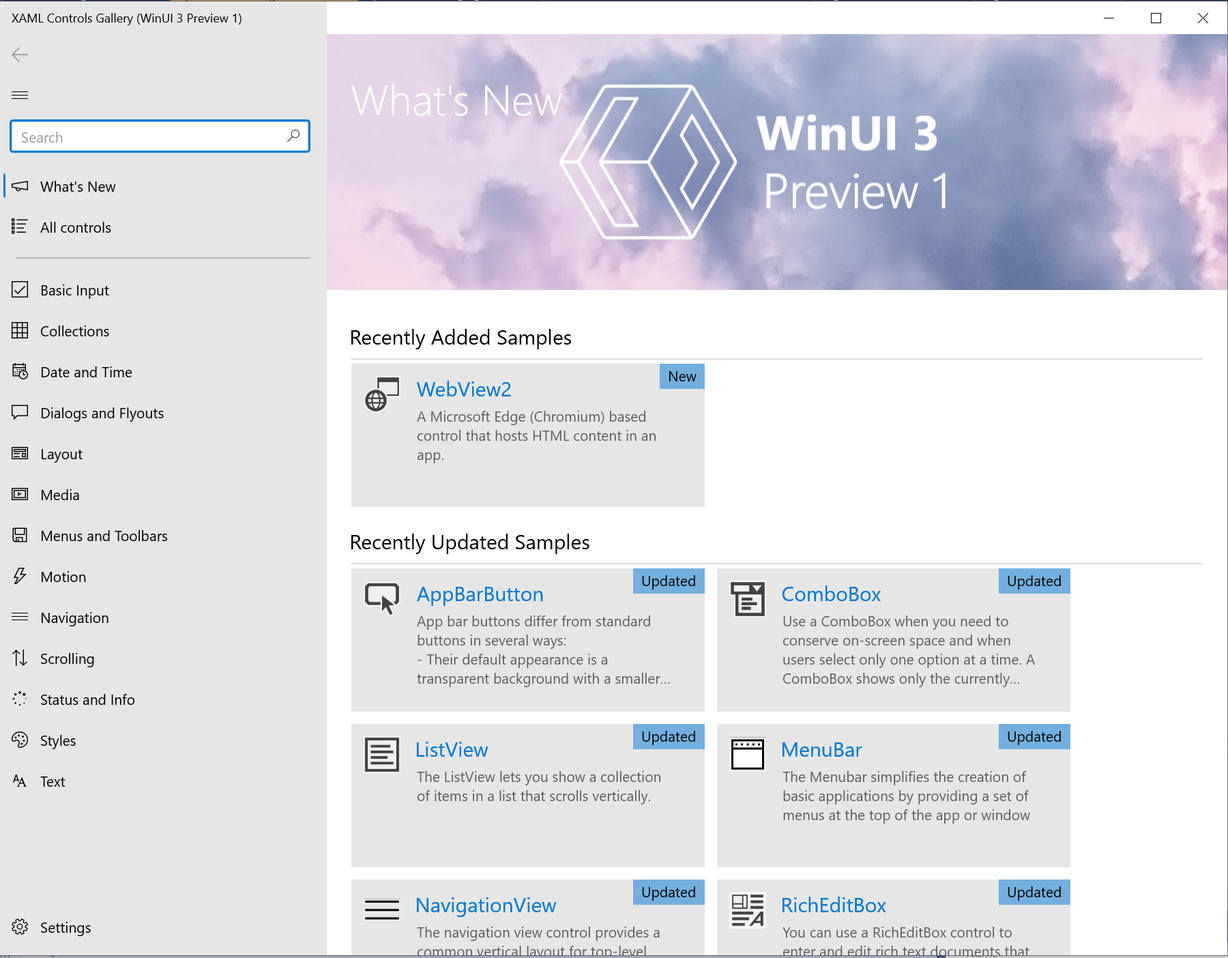
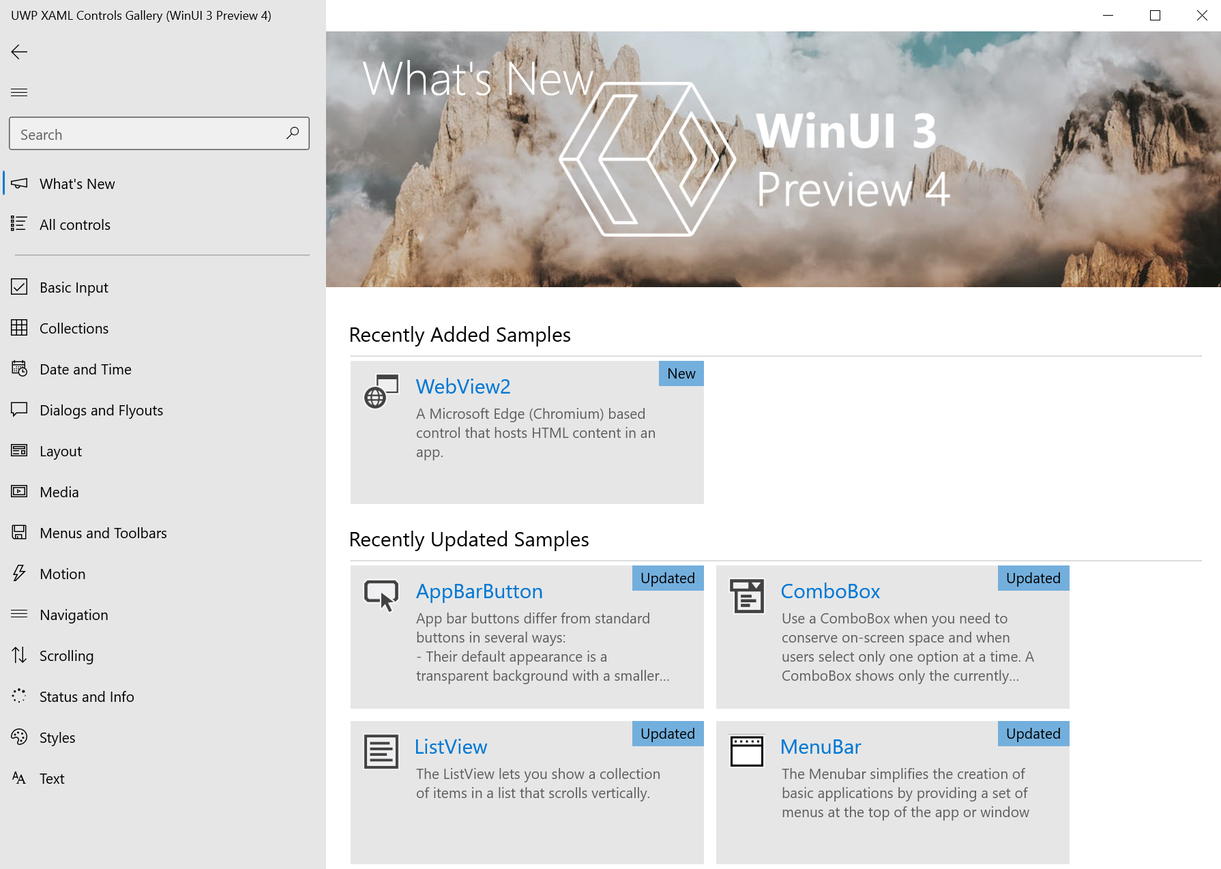
WinUI 3 Preview 4 guidance updates (#1272)
* First draft of P4 release notes

* Addressing a few pieces of feedback

* Removing inner loop improvements from new functionality

* Adding new xaml controls gallery image

* just a few revisions

* delete en-us from urls

* fixed bookmark links

* deleted version from URL

* revised link

* Adding a few last minute notes

* Adding visual studio note

* Editing note about API availability

* Adding a note about customcapabilities API

* Update index.md

just fixing the build suggestions

diff --git a/hub/apps/winui/winui3/index.md b/hub/apps/winui/winui3/index.md
@@ -1,54 +1,52 @@
 ---
-title: WinUI 3 Preview 3 (November 2020)
-description: Overview of the WinUI 3 Preview 3 release.
-ms.date: 11/17/2020
+title: WinUI 3 Preview 4 (February 2021)
+description: Overview of the WinUI 3 Preview 4 release.
+ms.date: 02/09/2021
 ms.topic: article
 ---
 
-# Windows UI Library 3 Preview 3 (November 2020)
+# Windows UI Library 3 Preview 4 (February 2021)
 
 Windows UI Library (WinUI) 3 is a native user experience (UX) framework for both Windows Desktop and UWP apps.
 
-**WinUI 3 Preview 3** brings both new and improved functionality, along with significant bug fixes.
-
-**See [Preview 3 limitations and known issues](#preview-3-limitations-and-known-issues)**.
+**WinUI 3 Preview 4** is a stability preview release that includes critical bug fixes and other general improvements (see **[Capabilities introduced in Preview 4](#capabilities-introduced-in-preview-4)**).
 
 > [!Important]
 > This WinUI 3 preview release is intended for early evaluation and to gather feedback from the developer community. It should **NOT** be used for production apps.
 >
-> We will continue shipping preview releases of WinUI 3 into 2021, followed by the first official release.
+> We will continue shipping preview releases of WinUI 3 into 2021, followed by the first official, supported release in March 2021.
 >
 > Please use the [WinUI GitHub repo](https://github.com/microsoft/microsoft-ui-xaml) to provide feedback and log suggestions and issues.
 
-## Install WinUI 3 Preview 3
+## Install WinUI 3 Preview 4
 
-WinUI 3 Preview 3 includes Visual Studio project templates to help get started building apps with a WinUI-based user interface, and a NuGet package that contains the WinUI libraries. To install WinUI 3 Preview 3, follow these steps.
+WinUI 3 Preview 4 includes Visual Studio project templates to help get started building apps with a WinUI-based user interface, and a NuGet package that contains the WinUI libraries. To install WinUI 3 Preview 4, follow these steps.
 
 > [!NOTE]
-> You can also clone and build the WinUI 3 Preview 3 version of the [XAML Controls Gallery](#xaml-controls-gallery-winui-3-preview-3-branch).
+> You can also clone and build the WinUI 3 Preview 4 version of the [XAML Controls Gallery](#xaml-controls-gallery-winui-3-preview-4-branch).
 
 1. Ensure that your development computer has Windows 10, version 1803 (build 17134), or newer installed.
 
-2. Install [Visual Studio 2019, version 16.9 Preview](https://visualstudio.microsoft.com/vs/preview/)
+2. Install [Visual Studio 2019 version 16.9 Preview](https://visualstudio.microsoft.com/vs/preview/). Download the **latest preview** to ensure you get all of the necessary updates to your workloads (such as .NET 5).
 
     You must include the following workload when installing Visual Studio:
     - Universal Windows Platform development
 
     To build .NET apps, you must also include the following workloads:
-    - .NET Desktop Development (this also installs .NET 5)
-    
+    - .NET Desktop Development (this also installs the latest version of .NET 5, which you'll need)
+
     To build C++ apps, you must also include the following workloads:
     - Desktop development with C++
     - The *C++ (v142) Universal Windows Platform tools* optional component for the Universal Windows Platform workload (see "Installation Details" under the "Universal Windows Platform development" section, on the right pane)
+
 3. Make sure your system has a NuGet package source enabled for **nuget.org**. For more information, see [Common NuGet configurations](/nuget/consume-packages/configuring-nuget-behavior).
 
-4. Download and install the [WinUI 3 Preview 3 VSIX package](https://aka.ms/winui3/preview3-download). This adds both the WinUI 3 project templates and the NuGet package containing the WinUI 3 libraries to Visual Studio 2019.
+4. Download and install the [WinUI 3 Preview 4 VSIX package](https://aka.ms/winui3/preview4-download). This adds both the WinUI 3 project templates and the NuGet package containing the WinUI 3 libraries to Visual Studio 2019.
 
     For instructions on how to add the VSIX package to Visual Studio, see [Finding and Using Visual Studio Extensions](/visualstudio/ide/finding-and-using-visual-studio-extensions#install-without-using-the-manage-extensions-dialog-box).
 
-#### WebView2
+5. To use WinUI 3 tooling such as Live Visual Tree, Hot Reload, and Live Property Explorer, you must enable WinUI 3 tooling with Visual Studio Preview Features as described in the [instructions here](https://github.com/microsoft/microsoft-ui-xaml/issues/4140).
 
-If you're using the WebView2 control in your app, please install the **Dev Channel version of the Microsoft Edge Browser** from [Microsoft Edge Insider Channels](https://www.microsoftedgeinsider.com/en-us/download). Make sure to uninstall any existing instances of Microsoft Edge Beta, Microsoft Edge Dev, and Microsoft Edge WebView2 Runtime.
 
 #### Windows Community Toolkit
 
@@ -56,7 +54,7 @@ If you're using the Windows Community Toolkit, [download the latest version](htt
 
 ## Create WinUI projects
 
-After installing the WinUI 3 Preview 3 VSIX package, you're ready to create a new project using one of the WinUI project templates in Visual Studio. To access the WinUI project templates in the **Create a new project** dialog, filter the language to **C++** or **C#**, the platform to **Windows**, and the project type to **WinUI**. Alternatively, you can search for *WinUI* and select one of the available C# or C++ templates.
+After installing the WinUI 3 Preview 4 VSIX package, you're ready to create a new project using one of the WinUI project templates in Visual Studio. To access the WinUI project templates in the **Create a new project** dialog, filter the language to **C++** or **C#**, the platform to **Windows**, and the project type to **WinUI**. Alternatively, you can search for *WinUI* and select one of the available C# or C++ templates.
 
 ![WinUI project templates](images/winui-projects-csharp.png)
 
@@ -65,11 +63,11 @@ For more information about getting started with the WinUI project templates, see
 - [Get started with WinUI 3 for desktop apps](get-started-winui3-for-desktop.md)
 - [Get started with WinUI 3 for UWP apps](get-started-winui3-for-uwp.md)
 
-Aside from the [limitations and known issues](#preview-3-limitations-and-known-issues), building an app using the WinUI projects is  similar to building a UWP app with XAML and WinUI 2.x. Therefore, most of the [guidance documentation](/windows/uwp/design/) for UWP apps and the **Windows.UI** WinRT namespaces in the Windows SDK is applicable.
+Aside from the [limitations and known issues](#limitations-and-known-issues), building an app using the WinUI projects is  similar to building a UWP app with XAML and WinUI 2.x. Therefore, most of the [guidance documentation](/windows/uwp/design/) for UWP apps and the **Windows.UI** WinRT namespaces in the Windows SDK is applicable.
 
-With this release, we've also added [WinUI 3 API reference documentation](/windows/winui/api/) for all WinRT APIs ported to WinUI 3.
+API reference documentation for this release is coming soon. The link will be provided here when it is available. In the meantime, feel free to look at the [WinUI 3 API reference documentation for Preview 3](/windows/winui/api/).
 
-If you created a project using WinUI 3 Preview 2, you can upgrade your project to use Preview 3. See the [WinUI GitHub repository](https://aka.ms/winui3/upgrade-instructions) for detailed instructions.
+If you created a project using WinUI 3 Preview 3, you can upgrade your project to use Preview 4. See the [WinUI GitHub repository](https://aka.ms/winui3/upgrade-instructions) for detailed instructions.
 
 ### Project templates for WinUI 3
 
@@ -106,35 +104,81 @@ The following item templates are available for use in a WinUI project. To access
 
 ### Visual Studio Support
 
-In order to take advantage of the latest tooling features added into WinUI 3 Preview 3 like Hot Reload, Live Visual Tree, and Live Property Explorer, you must use the latest preview version of Visual Studio with the latest WinUI 3 preview. The table below shows the compatibility of future versions with WinUI 3 Preview 3:
+In order to take advantage of the latest tooling features added into WinUI 3 Preview 4 like Hot Reload, Live Visual Tree, and Live Property Explorer, you must use the latest preview version of Visual Studio with the latest WinUI 3 preview and be sure to enable WinUI tooling in Visual Studio Preview Features, as described in the [instructions here](https://github.com/microsoft/microsoft-ui-xaml/issues/4140). The table below shows the compatibility of future versions with WinUI 3 Preview 4:
 
-| VS Version  | WinUI 3 Preview 3  |
+| VS Version  | WinUI 3 Preview 4  |
 |---|---|
 | 16.8 RTM  | No   |
 | 16.9 Previews  | Yes  | 
 | 16.9 RTM  | No   |
 | 16.10 Previews  | Yes   |
 
+## Capabilities introduced in Preview 4
 
-## New features and capabilities in Preview 3
+- Parity with WinUI 2.5 (includes InfoBar control, new features in ProgressRing and NavigationView, and bug fixes)
+- Custom titlebar capabilities: new Window.ExtendsContentIntoTitleBar and Window.SetTitleBar APIs that allow developers to create custom title bars in Desktop apps.
+- VirtualSurfaceImageSource  support
 
-- ARM64 Support
-- Drag and drop inside and outside of apps
-- RenderTargetBitmap (currently only XAML content - no SwapChainPanel content)
-- Improvements to our tooling/developer experience:
-  - Live Visual Tree, Hot Reload, Live Property Explorer and similar tools
-  - Intellisense now working for WinUI 3 
-- MRT Core Support
-  - This makes apps faster and lighter on startup and provides quicker resource lookup.
-- Custom cursor support
-- Off-thread input
-- Performance improvements since Preview 2
-- Multiple windows in Desktop apps - improved support since Preview 2
+## List of bugs fixed in Preview 4
+
+Below is a list of user-facing bugs that the team has fixed since Preview 3. There has also been a lot of work going on surrounding stabilization and improving our testing.
+
+- This release has taken on a new version of CS/WinRT and the Windows SDK, which fixed the following bugs:
+  - Crash when binding to a URI property using {Binding}
+  - C#/WinRT Marshal functions not interoperating correctly with .NET 5
+
+- WinUI 3 crash when running on Windows Insider Builds
+  - Thanks to multiple community contributors for reporting this bug on GitHub! 
+- WebView2 doesn't apply host app's Language/locale to CoreWebView2Environment
+- Windows Community Toolkit DataGrid control crashes app on start/when scrollbars appear
+  - Thanks to multiple community contributors for reporting this bug on GitHub!
+- Page rendering gets into a bad state when display mode changes
+- Crash when using Language ComboBox in CalendarView
+- WinUI 3 Desktop: Can't tab out of WebView2
+- WinUI 3 Desktop: TreeView with derived TreeViewNodes crashes 
+  - Thanks to @eleanorleffler for filing this [issue on GitHub](https://github.com/microsoft/microsoft-ui-xaml/issues/2699)!
+- WinUI 3 Desktop: Unable to Enter Text into TextBox inside ContentDialog 
+  - Thanks to @eleanorleffler for filing this [issue on GitHub](https://github.com/microsoft/microsoft-ui-xaml/issues/2704)!
+- WinUI 3 Desktop: ALT and F6 don't work
+- Old removed SwapChainPanel renders on top of new SwapChain
+  - Thanks to @dotMorten for filing this [issue on Github](https://github.com/microsoft/microsoft-ui-xaml/issues/2942)!
+- WinUI 3 Desktop: Cannot scroll with trackpad
+- Crash when using NavigationView control with multiple windows on the same thread
+- Accessibility Issue: Show focus rect on WinUI desktop app launch
+- Access violation while scrolling in DataGrid
+  - Thanks to @TroelsL for filing this [issue on GitHub](https://github.com/microsoft/microsoft-ui-xaml/issues/2946)!
+- WinUI 3 Desktop: Tab cycling does not work 
+- Drag and Drop on GridView fails in desktop application with WinUI Xaml Islands
+  - Thanks to @smk2007 for filing this [issue on GitHub](https://github.com/microsoft/microsoft-ui-xaml/issues/3871)!
+- Accessibility issue: Unable to scroll with PageUp/PageDown keys on WinUI 3 Desktop
+- WebView2 has wrong viewport size
+- WebView2 crash on click after opening MenuFlyout
+  - Thanks to @sudongg for filing this [issue on GitHub](https://github.com/microsoft/microsoft-ui-xaml/issues/3729)!
+- WinUI 3 Desktop: Attempting to bring down DropDownButton or SplitButton's flyout causes app crash
+- WebView2: Double right click on mouse causes a crash
+- Clicking on a ToggleSplitButton causes the application to crash
+  - Thanks to @lhak for filing this [issue on GitHub](https://github.com/microsoft/microsoft-ui-xaml/issues/3641)!
+- WinUI 3 Desktop: Empty DesktopWindowXamlSource window visible on task bar
+  - Thanks to @bridgesquared for filing this [issue on GitHub](https://github.com/microsoft/microsoft-ui-xaml/issues/3698)!
+- WinUI 3 Desktop: DataGrid not displaying
+  - Thanks to @eleanorleffler for filing this [issue on GitHub](https://github.com/microsoft/microsoft-ui-xaml/issues/2703)!
+- WinUI 3 Desktop: Unable to drop files onto Grid 
+  - Thanks to @eleanorleffler for filing this [issue on GitHub](https://github.com/microsoft/microsoft-ui-xaml/issues/2715)!
+- WinUI 3 Desktop: ItemsRepeater crash in WinUI 3 Preview 2 
+  - Thanks to @hshristov for filing this [issue on GitHub](https://github.com/microsoft/microsoft-ui-xaml/issues/3007)!
+- AccessViolationException thrown when updating bindings
+  - Thanks to @WamWooWam for filing this [issue on GitHub](https://github.com/microsoft/microsoft-ui-xaml/issues/3680)!
+- WinUI 3 Desktop: app crashes on scroll NavigationView
+  - Thanks to @Berkunath for filing this [issue on GitHub](https://github.com/microsoft/microsoft-ui-xaml/issues/3598)!
+- ItemsControl does not get updated while dynamically adding or removing items in its ItemsSource collection. 
+  - Thanks to @VigneshRameshh for filing this [issue on GitHub](https://github.com/microsoft/microsoft-ui-xaml/issues/3517)!
+- Compile error C2760 in App.xaml.g.h if C++ Conformance Mode enabled 
+  - Thanks to @boostafazoo for filing this [issue on GitHub](https://github.com/microsoft/microsoft-ui-xaml/issues/3716)!
 
 
 ## New features and capabilities introduced in past WinUI 3 Previews
 
-The following features and capabilities were introduced in WinUI 3 Preview 1 & 2 and continue to be supported in WinUI 3 Preview 3.
+The following features and capabilities were introduced in WinUI 3 Preview 1-3 and continue to be supported in WinUI 3 Preview 4.
 
 - Ability to create Desktop apps with WinUI, including [.NET 5](https://github.com/dotnet/core/tree/master/release-notes/5.0) for Win32 apps
 - [RadialGradientBrush](/windows/uwp/design/style/brushes#radial-gradient-brushes)
@@ -146,6 +190,16 @@ The following features and capabilities were introduced in WinUI 3 Preview 1 & 2
   - Updated to target more recent version of Edge
   - No longer necessary to reference a WebView2-specific Nuget package
 - SwapChainPanel
+- MRT Core Support
+  - This makes apps faster and lighter on startup and provides quicker resource lookup.
+- ARM64 Support
+- Drag and drop inside and outside of apps
+- RenderTargetBitmap (currently only XAML content - no SwapChainPanel content)
+- Custom cursor support
+- Off-thread input
+- Improvements to our tooling/developer experience:
+  - Live Visual Tree, Hot Reload, Live Property Explorer and similar tools
+  - Intellisense for WinUI 3
 - Improvements required for open source migration
 
 For more information on both the benefits of WinUI 3 and the WinUI roadmap, see the [Windows UI Library Roadmap](https://github.com/microsoft/microsoft-ui-xaml/blob/master/docs/roadmap.md) on GitHub.
@@ -158,15 +212,15 @@ We welcome your feedback in the [WinUI GitHub repo](https://github.com/microsoft
 
 Take a look at our detailed [feature roadmap](https://github.com/microsoft/microsoft-ui-xaml/blob/master/docs/roadmap.md#winui-30-feature-roadmap) to see when specific features will be brought into WinUI 3. 
 
-## Preview 3 limitations and known issues
+## Limitations and known issues
 
-The Preview 3 release is just that, a preview. The scenarios around Desktop apps are especially new. Please expect bugs, limitations, and other issues.
+The Preview 4 release is just that, a preview. The scenarios around Desktop apps are especially new. Please expect bugs, limitations, and other issues.
 
-The following items are some of the known issues with WinUI 3 Preview 3. If you find an issue that isn't listed below, please let us know by contributing to an existing issue or filing a new issue through the [WinUI GitHub repo](https://github.com/microsoft/microsoft-ui-xaml/issues/new/choose).
+The following items are some of the known issues with WinUI 3 Preview 4. If you find an issue that isn't listed below, please let us know by contributing to an existing issue or filing a new issue through the [WinUI GitHub repo](https://github.com/microsoft/microsoft-ui-xaml/issues/new/choose).
 
 ### Platform and OS support
 
-WinUI 3 Preview 3 is compatible with PCs running the Windows 10 April 2018 Update (version 1803 - build 17134) and newer.
+WinUI 3 Preview 4 is compatible with PCs running the Windows 10 April 2018 Update (version 1803 - build 17134) and newer.
 
 ### Developer tools
 
@@ -202,20 +256,20 @@ WinUI 3 Preview 3 is compatible with PCs running the Windows 10 April 2018 Updat
 
 - Alt+F4 does not close Desktop app windows.
 
--	If you’re using a WebView2 in your app but it is not rendering or loading, you may be running an incompatible version of the Edge browser. [Download the Dev channel of Microsoft Edge](https://www.microsoftedgeinsider.com/en-us/download) and be sure to uninstall any existing instances of Microsoft Edge Beta, Microsoft Edge Dev, and Microsoft Edge WebView2 Runtime.
+- Due to changes with [CoreWindow](https://docs.microsoft.com/uwp/api/windows.ui.core.corewindow), the following WinRT APIs may no longer work with **Desktop** apps as expected:
+  - [`ApplicationView`](https://docs.microsoft.com/uwp/api/windows.ui.viewmanagement.applicationview) and all related APIs will no longer work.
+  - [`CoreApplicationView`](https://docs.microsoft.com/uwp/api/windows.applicationmodel.core.coreapplicationview) and all related APIs will no longer work.
+  - All `GetForCurrentView` APIs may not be supported, for example [`CoreInputView.GetForCurrentView`](https://docs.microsoft.com/uwp/api/Windows.UI.ViewManagement.Core.CoreInputView.GetForCurrentView).
+  - [`CoreWindow.GetForCurrentThread`](https://docs.microsoft.com/uwp/api/Windows.UI.Core.CoreWindow.GetForCurrentThread) will now return null.
 
-- Marshal functions should not be used in .NET 5 WinUI apps as they do not interoperate correctly with C#/WinRT. For more details, see [this page](https://github.com/microsoft/CsWinRT/blob/master/docs/interop.md).
+  For more information on using WinRT APIs in your WinUI 3 Desktop app, see [Windows Runtime APIs available to desktop apps](https://docs.microsoft.com/windows/apps/desktop/modernize/desktop-to-uwp-supported-api
+).
 
-- If you experience a crash setting a URI property, for example using a `{Binding}` in Xaml markup, you can work around it by using `{x:Bind}`, or by using a preview version of  C#/WinRT. To do this, add the following lines to your .csproj file:
+- [Windows.UI.ViewManagement.UISettings.ColorValuesChanged Event](https://docs.microsoft.com/uwp/api/windows.ui.viewmanagement.uisettings.colorvalueschanged) is no longer supported in Desktop apps. This may cause issues if you are using it to detect changes in Windows themes. 
 
-  ```xml
-  <ItemGroup>
-    <FrameworkReference Update="Microsoft.Windows.SDK.NET.Ref" 
-                        RuntimeFrameworkVersion="10.0.18362.11-preview" />
-    <FrameworkReference Update="Microsoft.Windows.SDK.NET.Ref" 
-                        TargetingPackVersion="10.0.18362.11-preview" />
-  </ItemGroup>
-  ```
+- This release includes some experimental APIs. These have not been thoroughly tested by the team and may have unknown issues. Please [file a bug](https://github.com/microsoft/microsoft-ui-xaml/issues/new?assignees=&labels=&template=bug_report.md&title=) on our repo if you encounter any issues. 
+
+- Previously, to get a CompositionCapabilities instance you would call [CompositionCapabilites.GetForCurrentView()](https://docs.microsoft.com/uwp/api/windows.ui.composition.compositioncapabilities.getforcurrentview). However, the capabilities returned from this call were *not* dependent on the view. To address and reflect this, we've deleted the GetForCurrentView() static in this release, so now you can create a [CompositionCapabilties](https://docs.microsoft.com/uwp/api/windows.ui.composition.compositioncapabilities) object directly.
 
 - For C# UWP apps:
 
@@ -230,12 +284,12 @@ WinUI 3 Preview 3 is compatible with PCs running the Windows 10 April 2018 Updat
 
   The `System` namespace versions still exist, but cannot be used with WinUI 3. This means that `ObservableCollection` doesn't work as-is in WinUI 3 C# UWP apps. For a workaround, see the [CollectionsInterop sample](https://github.com/microsoft/Xaml-Controls-Gallery/blob/winui3preview/XamlControlsGallery/CollectionsInterop.cs) in the [XAML Controls Gallery sample](https://github.com/microsoft/Xaml-Controls-Gallery/tree/winui3preview).
 
-## XAML Controls Gallery (WinUI 3 Preview 3 branch)
+## XAML Controls Gallery (WinUI 3 Preview 4 branch)
 
-See the [WinUI 3 Preview 3 branch of the XAML Controls Gallery](https://github.com/microsoft/Xaml-Controls-Gallery/tree/winui3preview) for a sample app that includes all WinUI 3 Preview 3 controls and features.
+See the [WinUI 3 Preview 4 branch of the XAML Controls Gallery](https://github.com/microsoft/Xaml-Controls-Gallery/tree/winui3preview) for a sample app that includes all WinUI 3 Preview 4 controls and features.
 
-![WinUI 3 Preview 3 XAML Controls Gallery app](images/WinUI3XamlControlsGalleryP3.PNG)<br/>
-*Example of the WinUI 3 Preview 3 XAML Controls Gallery app*
+![WinUI 3 Preview 4 XAML Controls Gallery app](images/WinUI3XamlControlsGallery.PNG)<br/>
+*Example of the WinUI 3 Preview 4 XAML Controls Gallery app*
 
 To download the sample, clone the **winui3preview** branch using the following command:
 

diff --git a/hub/apps/winui/winui3/get-started-winui3-for-desktop.md b/hub/apps/winui/winui3/get-started-winui3-for-desktop.md
@@ -1,7 +1,7 @@
 ---
 description: This guide shows you how to get starting creating .NET and C++/Win32 desktop apps with a WinUI 3 UI.
 title: Get started with WinUI 3 for desktop apps
-ms.date: 11/17/2020
+ms.date: 02/09/2021
 ms.topic: article
 keywords: windows 10, uwp, windows forms, wpf, xaml islands
 ms.author: mcleans
@@ -12,11 +12,11 @@ ms.custom: 19H1
 
 # Get started with WinUI 3 for desktop apps
 
-WinUI 3 Preview 3 includes project templates that enable you to create managed desktop C#/.NET Core and native C++/Win32 desktop apps with an entirely WinUI-based user interface. When you create apps using these project templates, the entire user interface of your application is implemented using windows, controls, and other UI types provided by WinUI 3. For a complete list of the project templates, see [this section](index.md#project-templates-for-winui-3).
+WinUI 3 Preview 4 includes project templates that enable you to create managed desktop C#/.NET Core and native C++/Win32 desktop apps with an entirely WinUI-based user interface. When you create apps using these project templates, the entire user interface of your application is implemented using windows, controls, and other UI types provided by WinUI 3. For a complete list of the project templates, see [this section](index.md#project-templates-for-winui-3).
 
 ## Prerequisites
 
-To use the WinUI 3 for desktop project templates described in this article, configure your development computer and install WinUI 3 Preview 3 by following the instructions [here](index.md#install-winui-3-preview-3).
+To use the WinUI 3 for desktop project templates described in this article, configure your development computer and install WinUI 3 Preview 4 by following the instructions [here](index.md#install-winui-3-preview-4).
 
 ## Create a WinUI 3 desktop app for C# and .NET 5
 
@@ -108,8 +108,8 @@ To support multiple languages in a WinUI Desktop app, and ensure proper localiza
 
 ## Known issues and limitations
 
-For a list of known issues and limitations, see [this section](index.md#preview-3-limitations-and-known-issues).
+See the [Limitations and known issues](index.md#limitations-and-known-issues) section of [Windows UI Library 3 Preview 4 (February 2021)](index.md).
 
 ## Related topics
 
-* [Windows UI Library 3](index.md)
+* [Windows UI Library 3 Preview 4 (February 2021)](index.md)

diff --git a/hub/apps/winui/winui3/get-started-winui3-for-uwp.md b/hub/apps/winui/winui3/get-started-winui3-for-uwp.md
@@ -1,7 +1,7 @@
 ---
 description: This guide shows you how to get starting creating UWP apps with a WinUI 3 UI.
 title: Get started with WinUI 3 for UWP apps
-ms.date: 11/17/2020
+ms.date: 02/09/2021
 ms.topic: article
 keywords: windows 10, uwp, winui
 ms.localizationpriority: high
@@ -10,11 +10,11 @@ ms.custom: 19H1
 
 # Get started with WinUI 3 for UWP apps
 
-WinUI 3 Preview 3 includes new project templates that let you create a Universal Windows Platform (UWP) app with a user interface built entirely on WinUI. When you create apps using these project templates, the entire user interface of your application is implemented using windows, controls, and styles provided by WinUI 3. For a complete list of supported WinUI 3 project templates, see [Project templates for WinUI 3](index.md#project-templates-for-winui-3).
+WinUI 3 Preview 4 includes new project templates that let you create a Universal Windows Platform (UWP) app with a user interface built entirely on WinUI. When you create apps using these project templates, the entire user interface of your application is implemented using windows, controls, and styles provided by WinUI 3. For a complete list of supported WinUI 3 project templates, see [Project templates for WinUI 3](index.md#project-templates-for-winui-3).
 
 ## Prerequisites
 
-To use the WinUI 3 for UWP project templates described in this article, configure your development computer and [install WinUI 3 Preview 3](index.md#install-winui-3-preview-3).
+To use the WinUI 3 for UWP project templates described in this article, configure your development computer and [install WinUI 3 Preview 4](index.md#install-winui-3-preview-4).
 
 ## Create a "WinUI 3 app in UWP" for C#
 
@@ -79,9 +79,9 @@ To use the WinUI 3 for UWP project templates described in this article, configur
 
 ## Known issues and limitations
 
-For a list of known issues and limitations, see [this section](index.md#preview-3-limitations-and-known-issues).
+See the [Limitations and known issues](index.md#limitations-and-known-issues) section of [Windows UI Library 3 Preview 4 (February 2021)](index.md).
 
 ## Related topics
 
-- [WinUI 3](index.md)
+- [Windows UI Library 3 Preview 4 (February 2021)](index.md)
 - [Create your first app](/windows/uwp/get-started/your-first-app)

diff --git a/hub/apps/desktop/visual-studio-templates.md b/hub/apps/desktop/visual-studio-templates.md
@@ -20,7 +20,7 @@ Visual Studio 2019 provides many project and item templates that help you build 
 
 The [Windows UI Library (WinUI)](../winui/index.md) is the modern native user interface (UI) platform for Windows apps across desktop (.NET and native Win32) and UWP app platforms. [WinUI 3](../winui/winui3/index.md) (currently available as a developer preview) is the latest major version of WinUI, and it transforms WinUI into a full UX framework for desktop Windows apps.
 
-WinUI 3 includes a VSIX package for Visual Studio 2019 that provides project and item templates that help you get started building apps with a WinUI-based interface. For more information about the WinUI 3 VSIX package and the project templates that it provides, see [this section](../winui/winui3/index.md#install-winui-3-preview-3).
+WinUI 3 includes a VSIX package for Visual Studio 2019 that provides project and item templates that help you get started building apps with a WinUI-based interface. See [Install WinUI 3 Preview 4](../winui/winui3/index.md#install-winui-3-preview-4) for more information about the WinUI 3 VSIX package and the project templates provided.
 
 > [!IMPORTANT]
 > WinUI 3, including the related Visual Studio templates, are currently available as a developer preview that is intended for early evaluation and to gather feedback from the developer community. It should NOT be used for production apps at this time.
